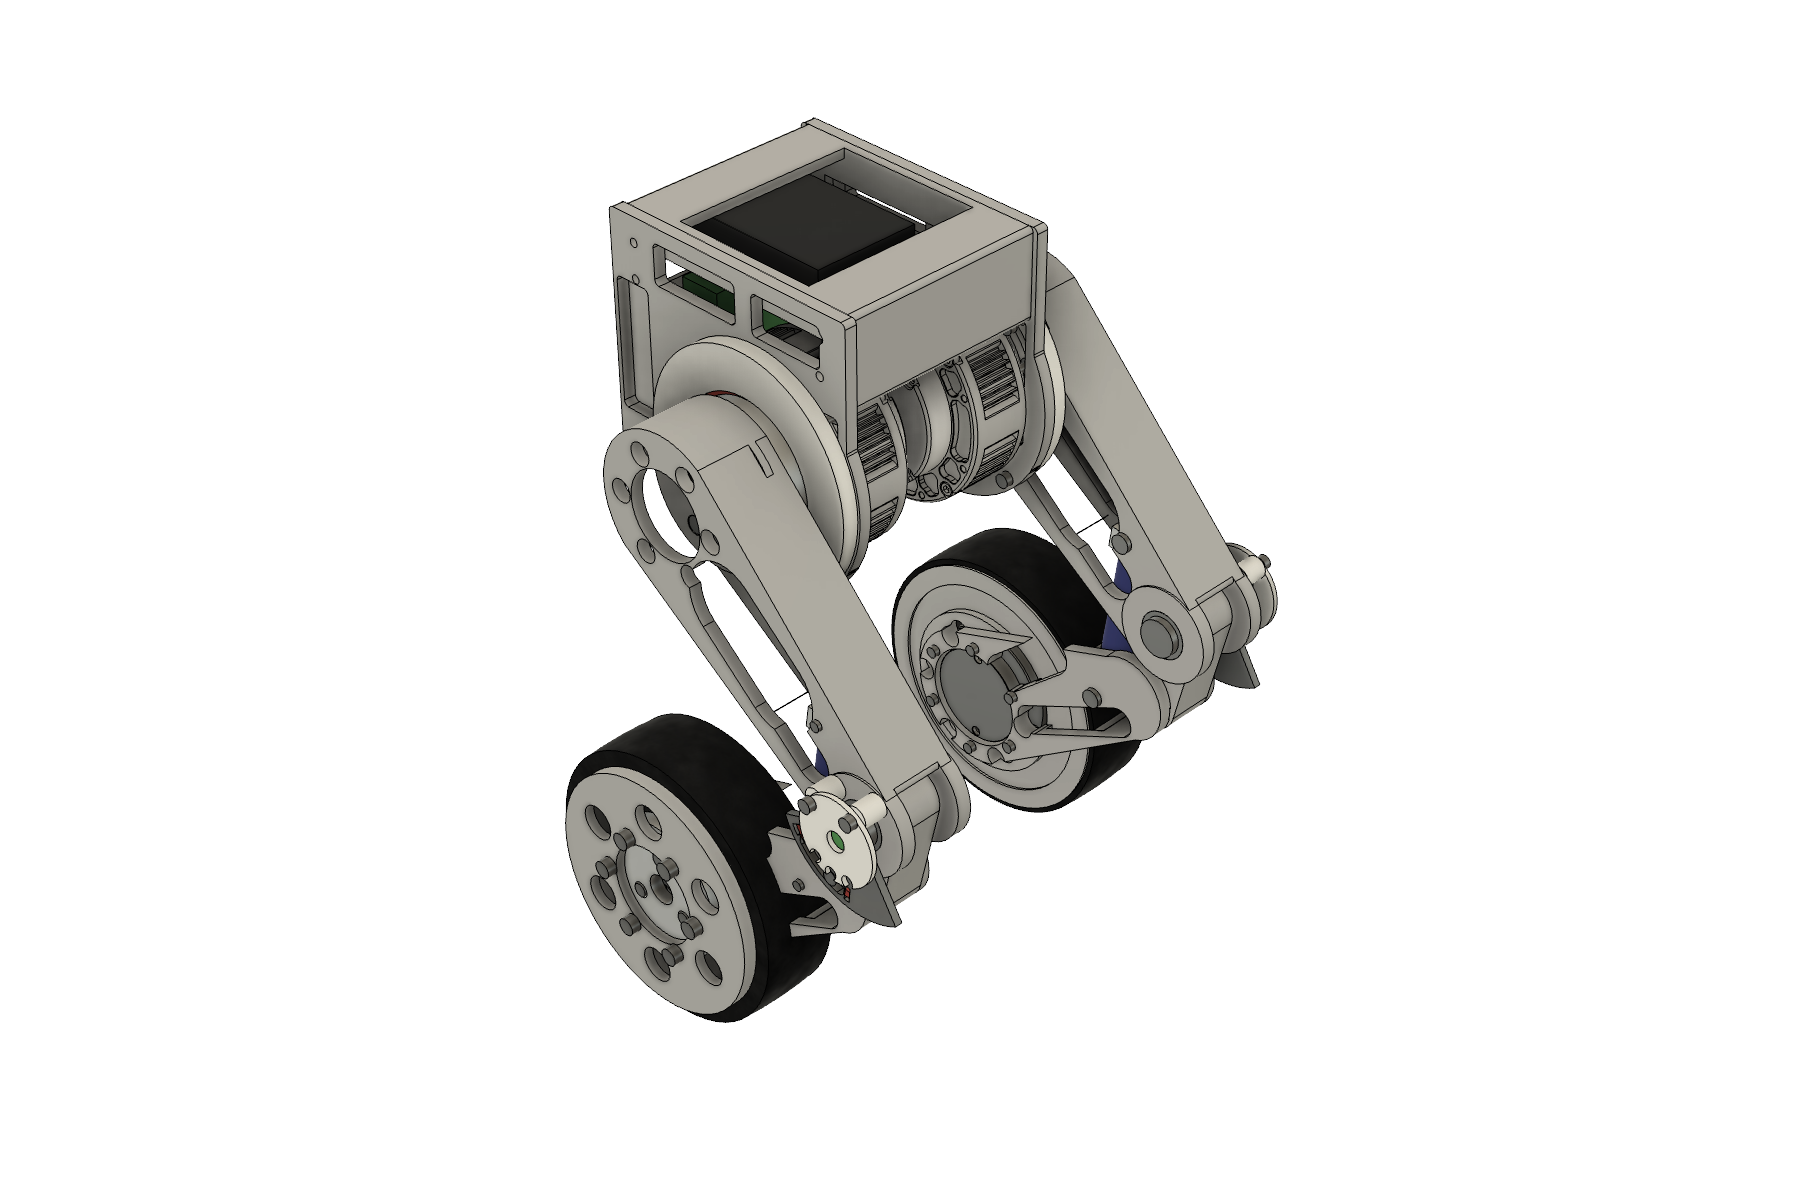
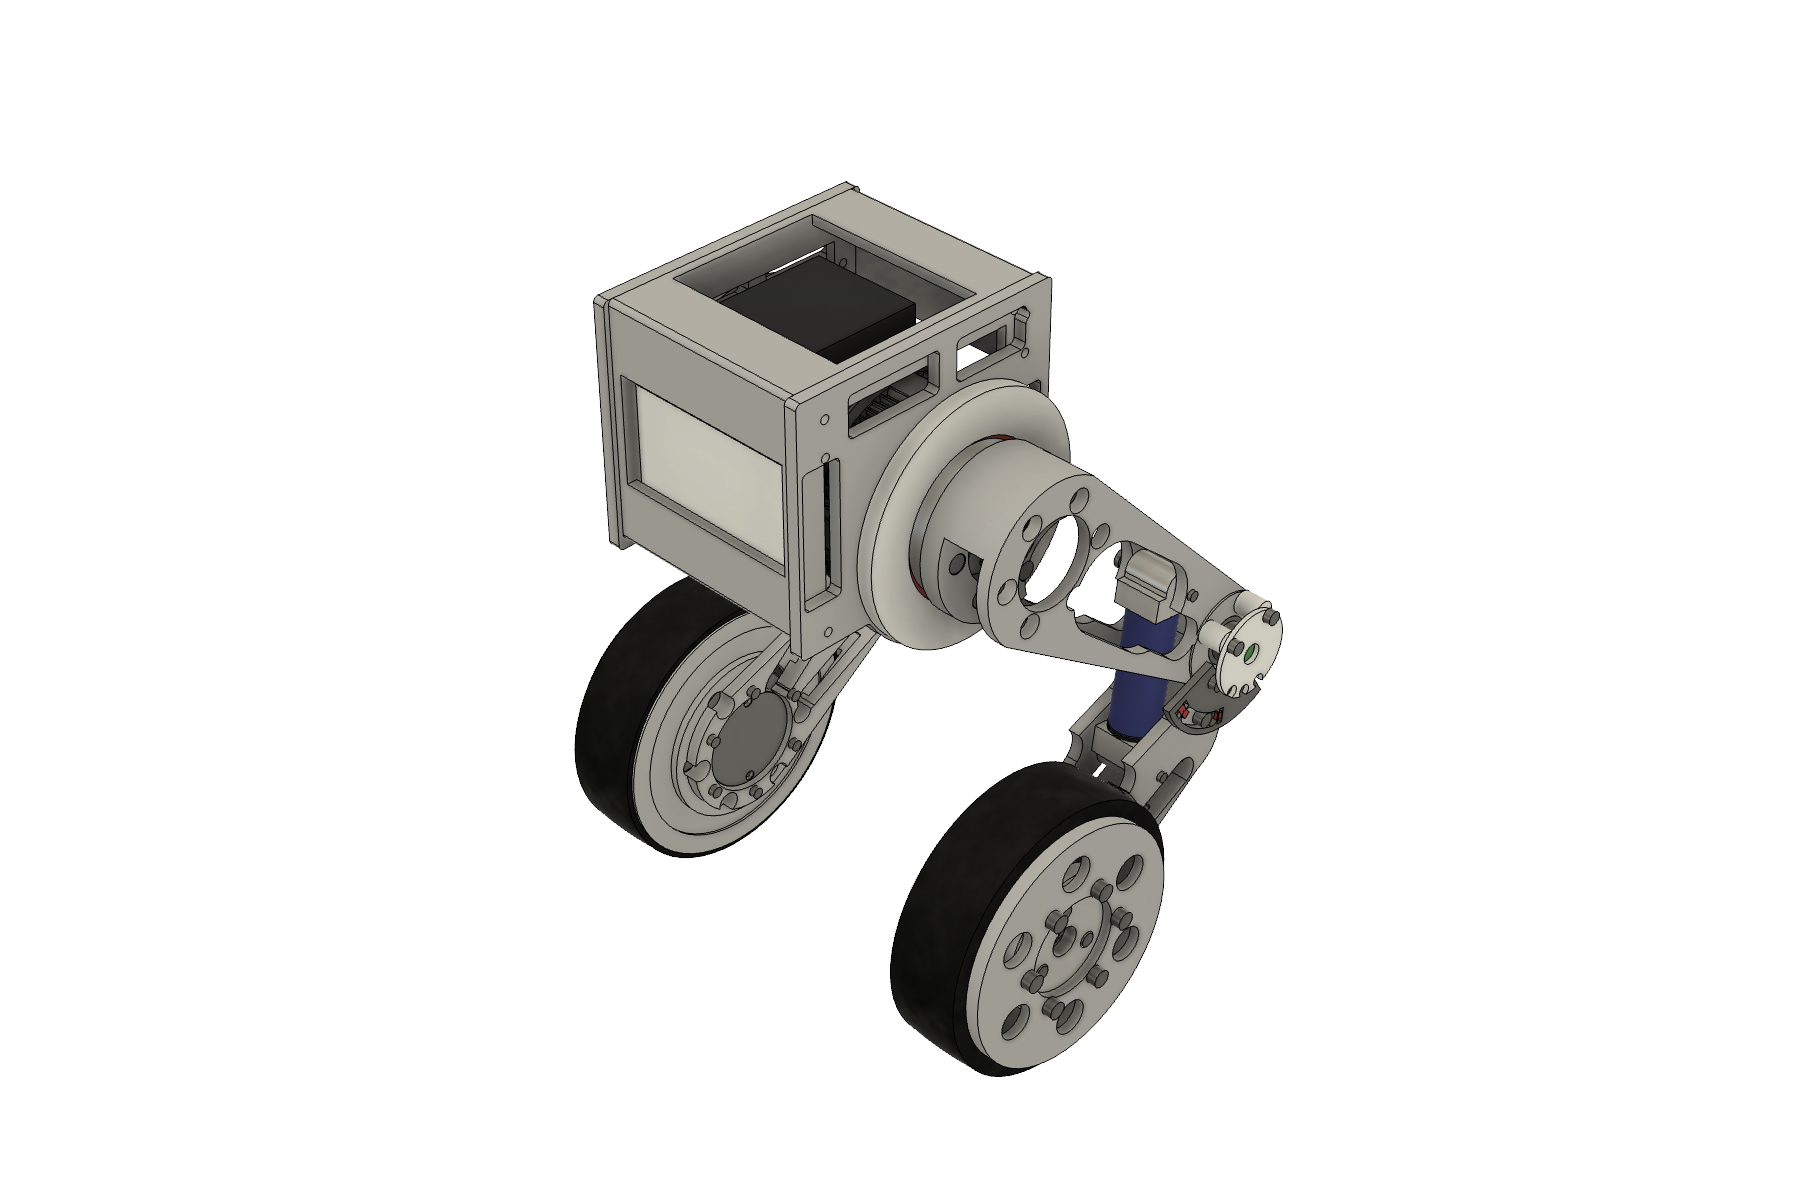
docs: clarify wheel assembly in README gallery

Changed region(s): [[0.3111, 0.0925, 0.7156, 0.8942]]

diff --git a/readme_images_fusion.py b/readme_images_fusion.py
@@ -1,11 +1,12 @@
 """Export the README CAD gallery from the active Beni_Prototype1 document.
 
 Run this file through the Fusion MCP after a model change that affects the full
-robot, leg, or knee views. The script changes viewport presentation and temporary
-occurrence visibility only; it restores visibility and leaves the viewport in a
-fitted isometric view.
+robot, leg, knee, or wheel-module views. The script changes viewport presentation
+and temporary occurrence visibility only; it restores visibility and leaves the
+viewport in a fitted isometric view.
 """
 
+import math
 import os
 import time
 
@@ -60,6 +61,11 @@ def _detail_view(viewport, target, extents):
     _settle(viewport)
 
 
+def _restore_bulbs(original_bulbs):
+    for occurrence, state in original_bulbs:
+        occurrence.isLightBulbOn = state
+
+
 def run(_context: str):
     app = adsk.core.Application.get()
     if app.activeDocument.name != "Beni_Prototype1":
@@ -68,6 +74,7 @@ def run(_context: str):
     design = adsk.fusion.Design.cast(app.activeProduct)
     viewport = app.activeViewport
     occurrences = list(design.rootComponent.allOccurrences)
+    root_occurrences = list(design.rootComponent.occurrences)
     original_bulbs = [(occ, occ.isLightBulbOn) for occ in occurrences]
     original_style = viewport.visualStyle
 
@@ -80,7 +87,7 @@ def run(_context: str):
 
         _standard_view(
             viewport,
-            adsk.core.ViewOrientations.IsoTopRightViewOrientation,
+            adsk.core.ViewOrientations.IsoTopLeftViewOrientation,
         )
         _save(viewport, "beni_full_robot.png", 1800, 1200)
 
@@ -90,17 +97,47 @@ def run(_context: str):
 
         _standard_view(
             viewport,
-            adsk.core.ViewOrientations.FrontViewOrientation,
+            adsk.core.ViewOrientations.BackViewOrientation,
         )
         _save(viewport, "beni_leg_side.png", 1400, 1000)
 
         _detail_view(viewport, (7.4, 7.45, -8.7), 5.5)
         _save(viewport, "beni_knee_detail.png", 1400, 1000)
-    finally:
-        for occ, state in original_bulbs:
-            occ.isLightBulbOn = state
-        viewport.visualStyle = original_style
+
+        _restore_bulbs(original_bulbs)
+        wheel_hubs = [
+            occ for occ in root_occurrences if occ.component.name == "Wheel_Hub_L"
+        ]
+        if len(wheel_hubs) != 1:
+            raise RuntimeError("Expected one top-level Wheel_Hub_L occurrence")
+        wheel_box = wheel_hubs[0].boundingBox
+        wheel_center_x = (wheel_box.minPoint.x + wheel_box.maxPoint.x) / 2.0
+        wheel_center_y = (wheel_box.minPoint.y + wheel_box.maxPoint.y) / 2.0
+        wheel_center_z = (wheel_box.minPoint.z + wheel_box.maxPoint.z) / 2.0
+
+        for occ in root_occurrences:
+            box = occ.boundingBox
+            center_x = (box.minPoint.x + box.maxPoint.x) / 2.0
+            center_y = (box.minPoint.y + box.maxPoint.y) / 2.0
+            center_z = (box.minPoint.z + box.maxPoint.z) / 2.0
+            radial_distance = math.hypot(
+                center_x - wheel_center_x,
+                center_z - wheel_center_z,
+            )
+            occ.isLightBulbOn = (
+                radial_distance < 4.8
+                and abs(center_y - wheel_center_y) < 4.0
+            )
+
         _standard_view(
             viewport,
             adsk.core.ViewOrientations.IsoTopRightViewOrientation,
+        )
+        _save(viewport, "beni_wheel_module.png", 1400, 1000)
+    finally:
+        _restore_bulbs(original_bulbs)
+        viewport.visualStyle = original_style
+        _standard_view(
+            viewport,
+            adsk.core.ViewOrientations.IsoTopLeftViewOrientation,
         )

diff --git a/PROJECT_STATUS.md b/PROJECT_STATUS.md
@@ -124,7 +124,7 @@ hand-built.
 | `rig_calc.py` | plain `python3` | Independent recomputation of the brief's arithmetic: spring curve, drop series, MGN12H moments, travel budget, mass budget, bounce mode, torque arm, and **`mode_a_stand()` — the verified Mode A load set** (42.00 mm overhang, the four moments, the tipping table, the step-6 mass/φ table). |
 | `rig_export.py` | inside Fusion | Rig STLs, the targeted Mode A anchor, and the transient ABS-calibrated shoulder-hub first article, with print orientation recorded per part. |
 | `first_article_fusion.py` | inside Fusion | Builds, validates and exports the four ABS actuator-interface coupons in `Beni_Prototype1_TestGauges`. |
-| `readme_images_fusion.py` | Fusion MCP, with `Beni_Prototype1` active | Refreshes the full-robot, complete-leg, and knee-detail images used by the project homepage. |
+| `readme_images_fusion.py` | Fusion MCP, with `Beni_Prototype1` active | Refreshes the full-robot, complete-leg, wheel-module, and knee-detail images used by the project homepage. |
 | `stl_inspect.py` | plain `python3` | Recovers circular features from an STL mesh. Used to check the GAUGE coupons against the design record. |
 | `fusion_bridge/` | both sides | Lets an agent without Fusion read the live model. `bridge.py` (plain `python3`) validates requests and reads results; `probe.py` + `ops.py` run inside Fusion. See [`fusion_bridge/PROTOCOL.md`](fusion_bridge/PROTOCOL.md). |
 | `firmware/teensy_stage0/` | PlatformIO / Teensy 4.1 | Non-energizing Stage 0 scaffold: dual 500 kbit/s internal CAN loopback, BNO085 raw SPI acquisition and a 256 kB/s onboard-microSD gate. |

diff --git a/CLAUDE.md b/CLAUDE.md
@@ -90,10 +90,10 @@ Start at [`PROJECT_STATUS.md`](PROJECT_STATUS.md) for status and reading order.
     be discoverable only in a subdirectory document.
 
 11. **Keep the README CAD gallery current.** When a verified model change affects
-    the full robot, leg, or knee views shown on the project homepage, run
-    `readme_images_fusion.py` through the Fusion MCP and commit the refreshed
-    `docs/readme/` images with the model change. Do not substitute concept art or
-    locally rendered STEP/STL images for the live Fusion model.
+    the full robot, leg, wheel module, or knee views shown on the project
+    homepage, run `readme_images_fusion.py` through the Fusion MCP and commit the
+    refreshed `docs/readme/` images with the model change. Do not substitute
+    concept art or locally rendered STEP/STL images for the live Fusion model.
 
 ## Where each fact lives — link, don't copy
 

diff --git a/README.md b/README.md
@@ -10,9 +10,9 @@ build; the complete robot is modeled but not yet built.
 
 ## Mechanisms
 
-| Complete leg | Passive knee and spring cartridge |
-|:---:|:---:|
-| <img src="docs/readme/beni_leg_side.png" alt="Complete Beni leg in Fusion" width="680"> | <img src="docs/readme/beni_knee_detail.png" alt="Beni passive knee detail in Fusion" width="680"> |
+| Complete leg | Wheel motor and hub | Passive knee |
+|:---:|:---:|:---:|
+| <img src="docs/readme/beni_leg_side.png" alt="Complete Beni leg in Fusion" width="440"> | <img src="docs/readme/beni_wheel_module.png" alt="Beni wheel module with the motor housing fixed inboard and the output hub outboard" width="440"> | <img src="docs/readme/beni_knee_detail.png" alt="Beni passive knee detail in Fusion" width="440"> |
 
 ## Shoulder assembly path
 
